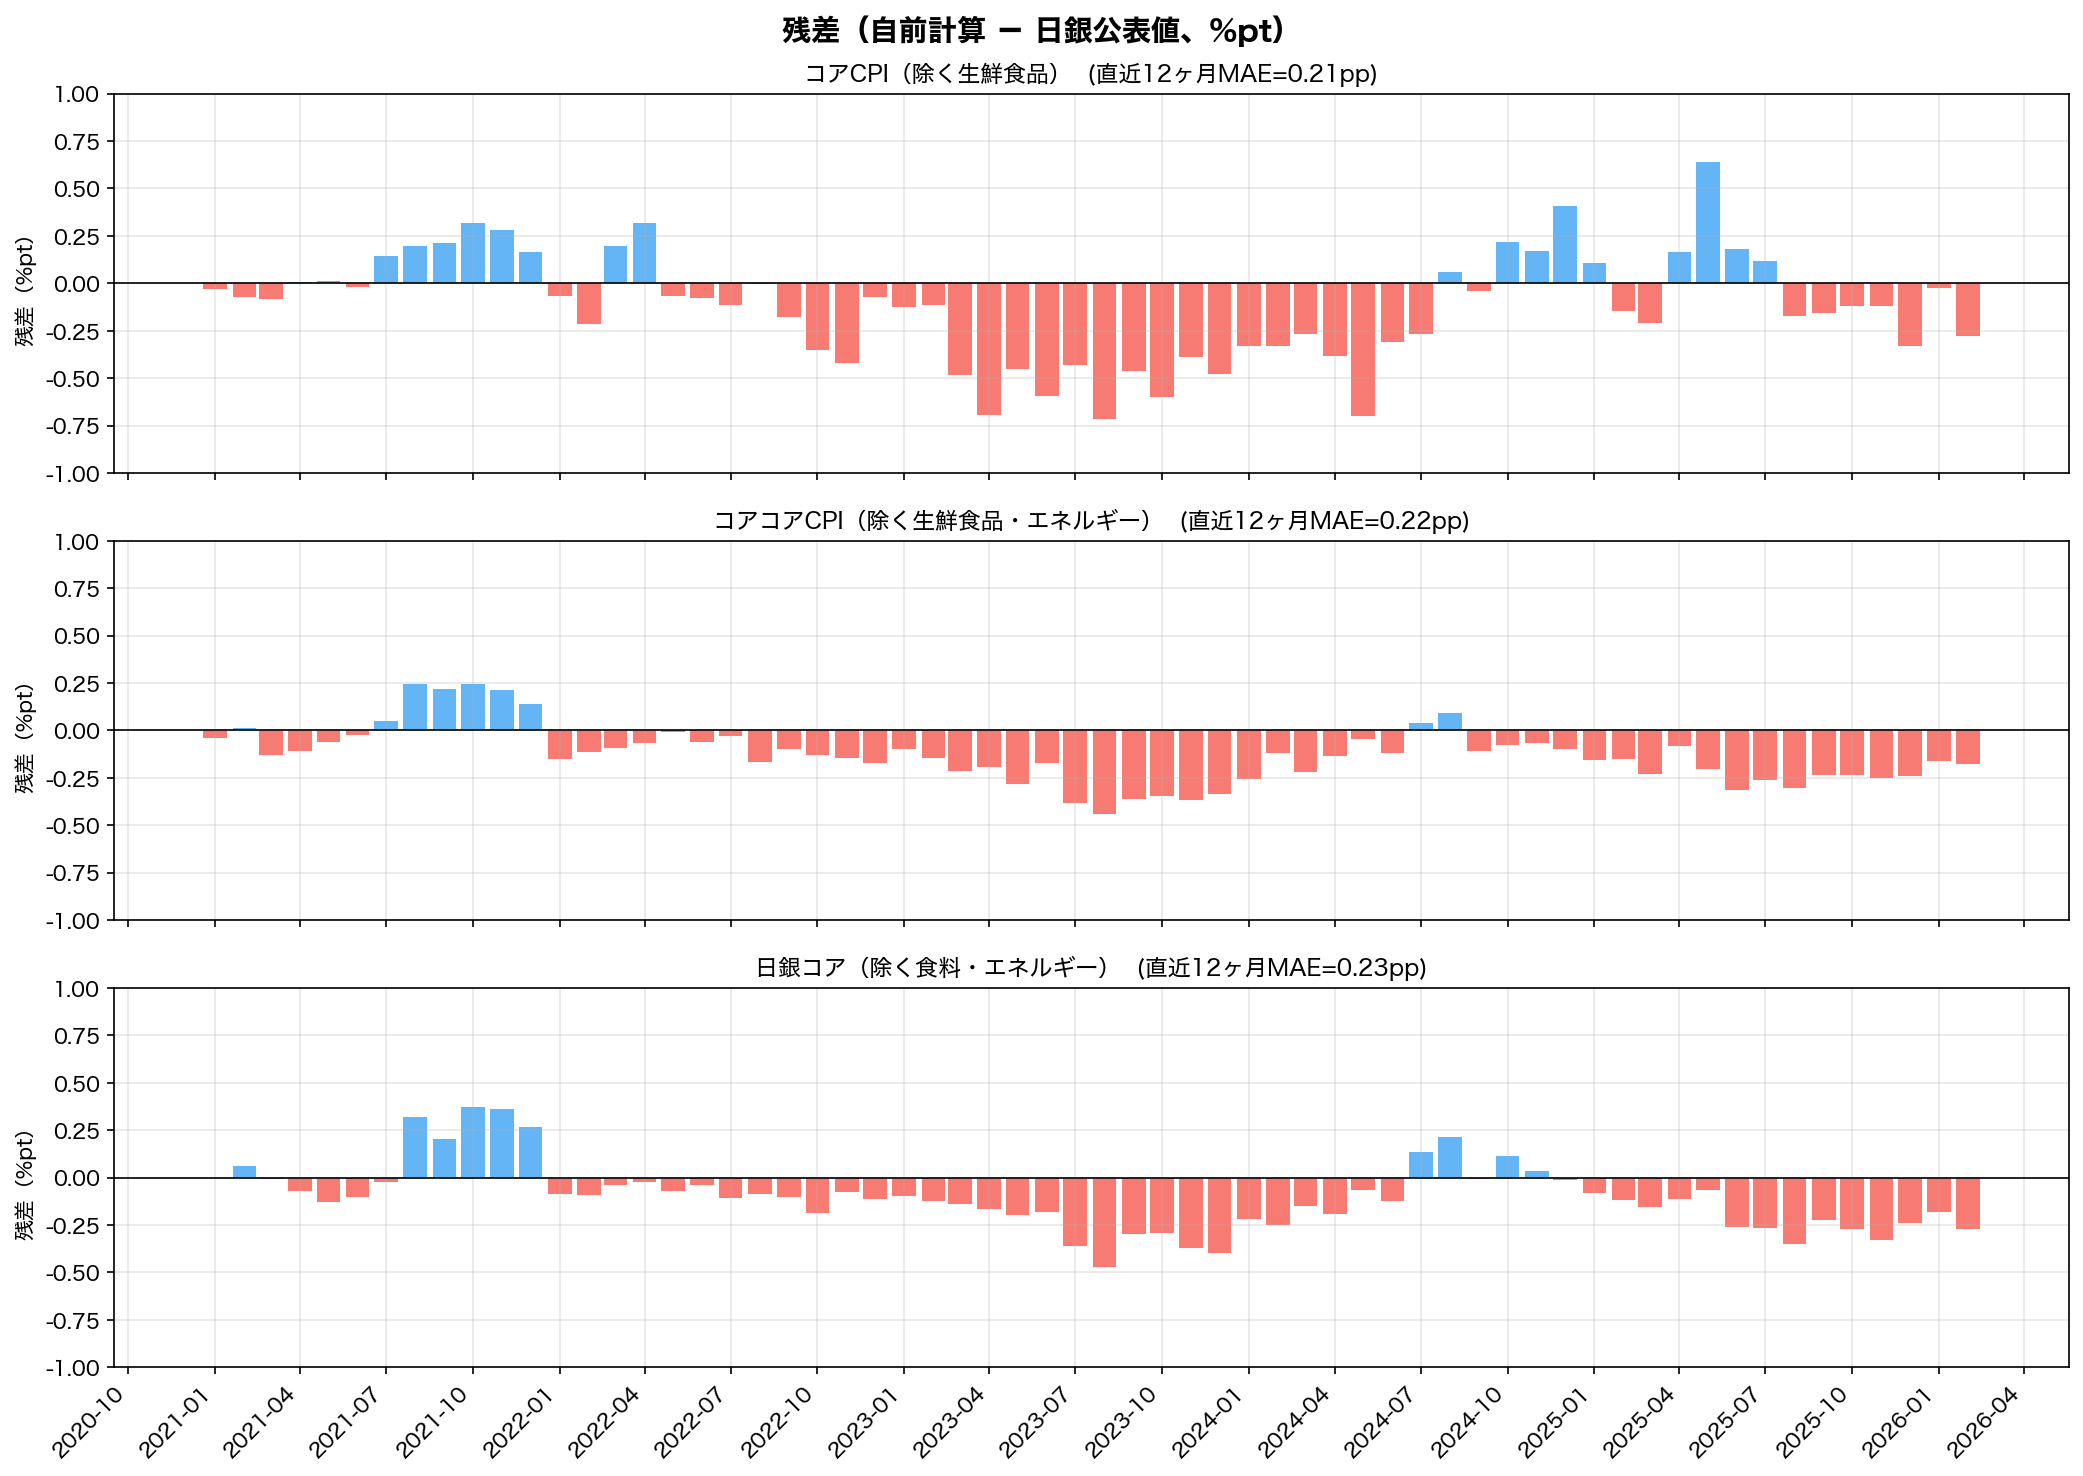
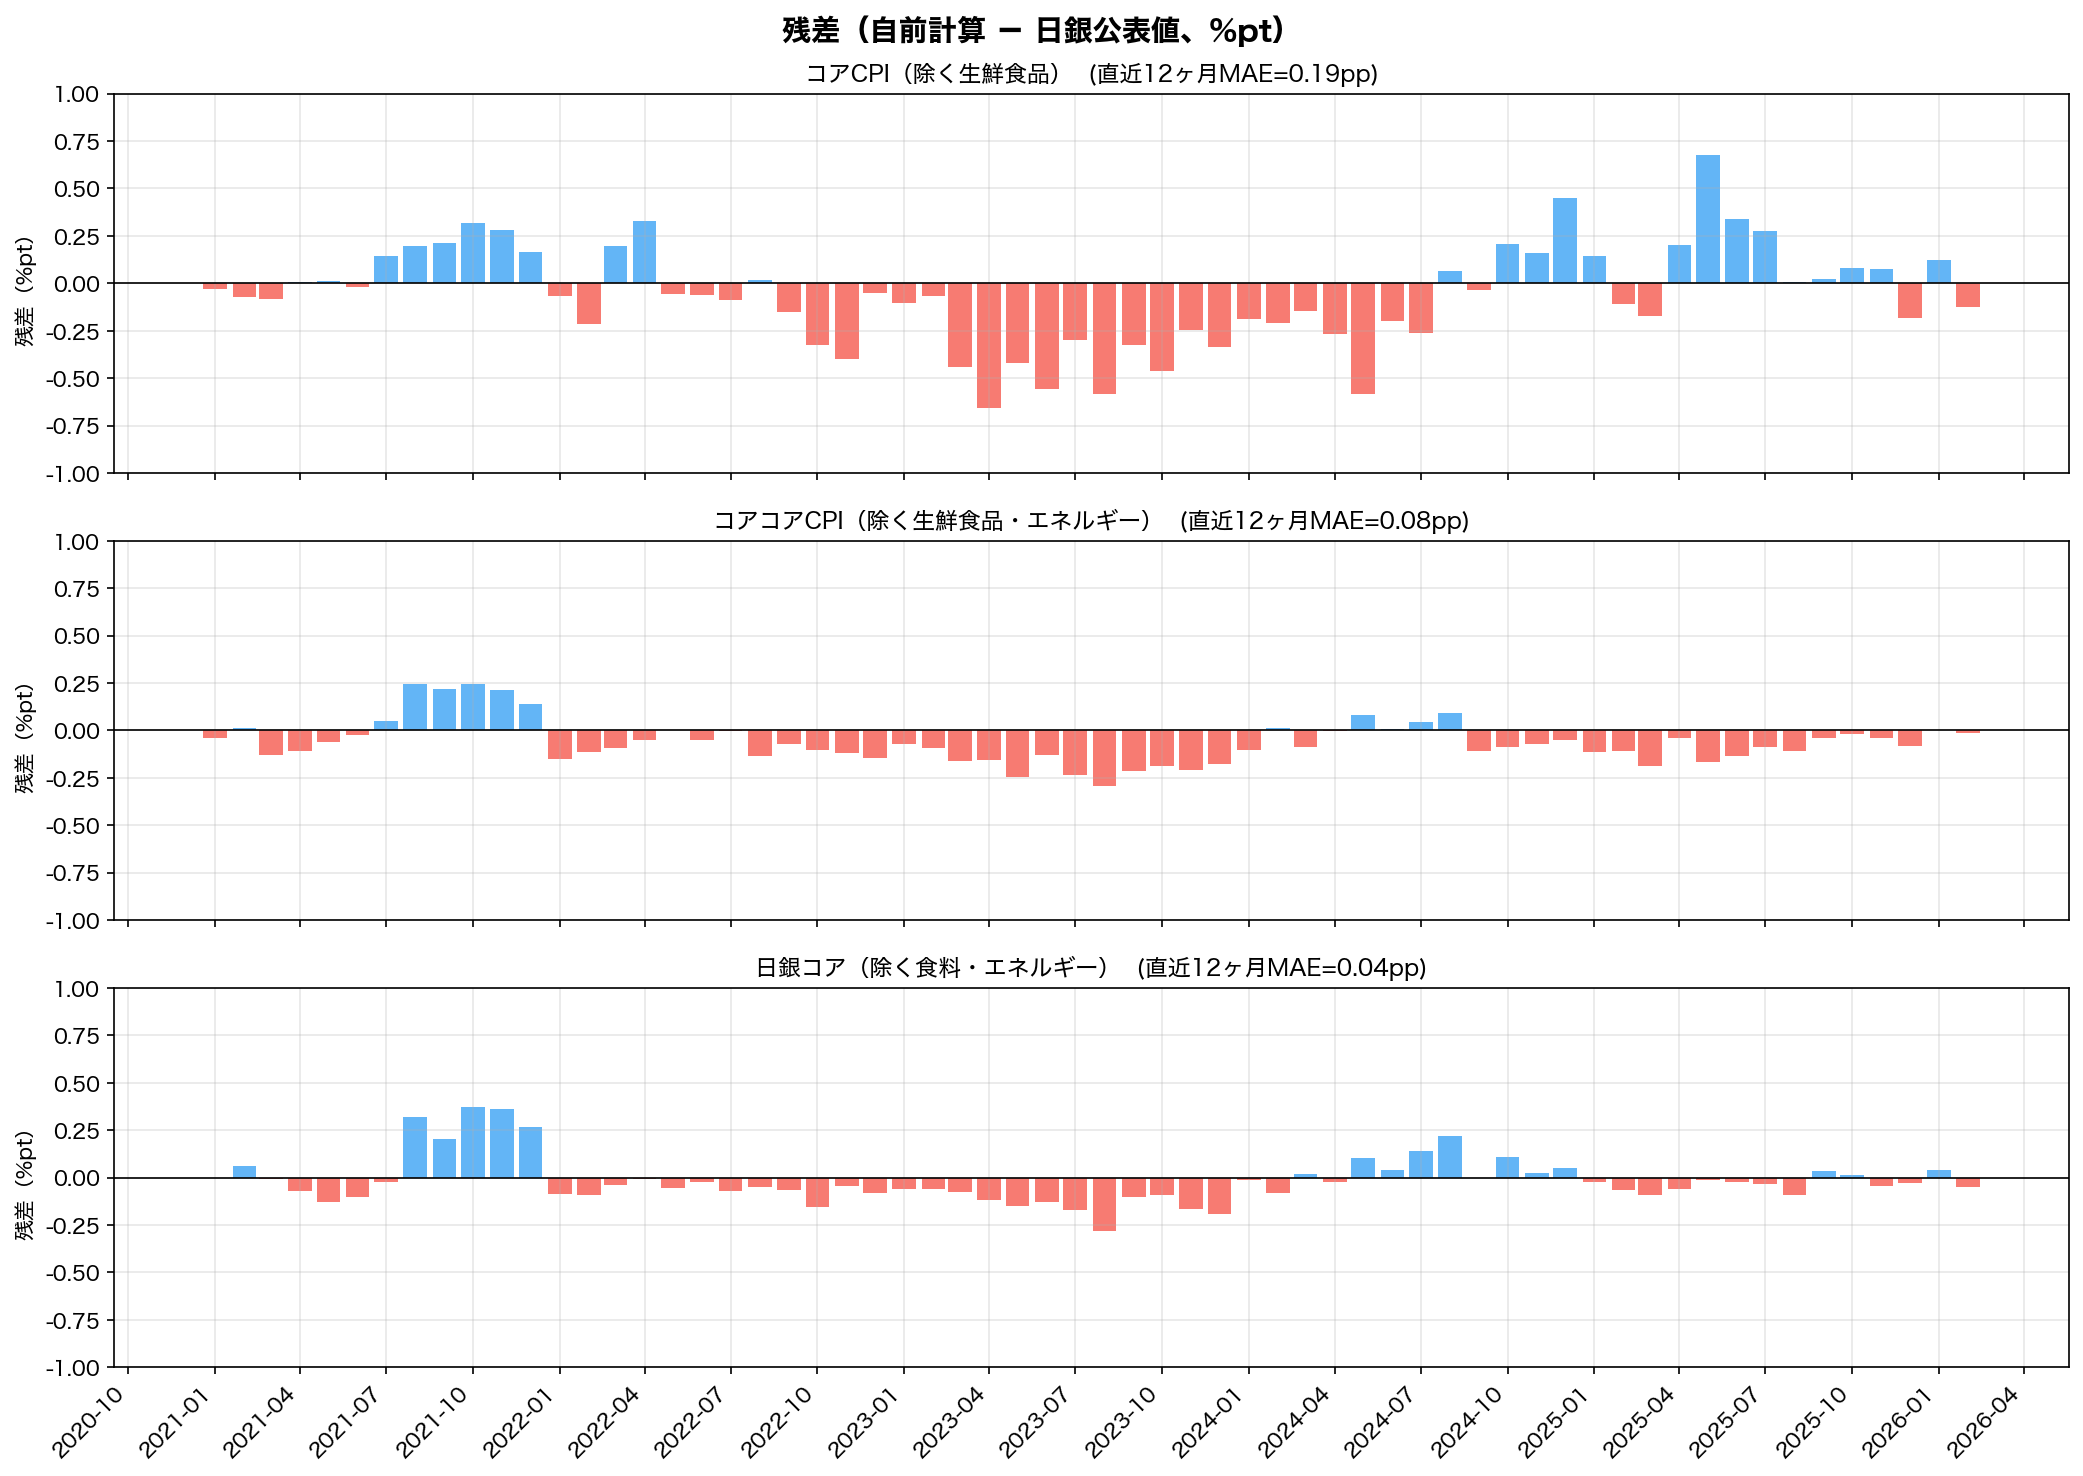
携帯通信料: 年度(2021-04〜2022-03)保合+固定段差52.4pt

diff --git a/src/adjust_interpolation.py b/src/adjust_interpolation.py
@@ -22,22 +22,35 @@ import pandas as pd
 
 
 def adjust_mobile(cpi_index: pd.Series) -> pd.Series:
-    """携帯通信料の調整（全期間保合方式）
+    """携帯通信料の調整（年度保合＋固定段差方式）
 
-    2021-04以降、急落前水準（2021-03）で保合。
-    政策誘導による値下げの全期間を除去する最もシンプルな方式。
+    1. 急落前（〜2021-03）: 実績値そのまま
+    2. 急落年度（2021-04〜2022-03）: 急落前水準で保合
+    3. 2022-04以降: 固定段差を加算
+       step = 2021-03の水準 - 2022-03の水準（年度末時点の段差）
+       adjusted[t] = actual[t] + step
     """
     adjusted = cpi_index.copy()
+    all_months = list(cpi_index.index)
 
     start_ym = "2021-03"
-    if start_ym not in adjusted.index:
+    end_ym = "2022-03"
+    if start_ym not in all_months or end_ym not in all_months:
         return adjusted
 
     val_pre = cpi_index[start_ym]
+    val_end = cpi_index[end_ym]
+    step = val_pre - val_end
 
     for ym in adjusted.index:
-        if ym > start_ym:
+        if ym <= start_ym:
+            pass
+        elif ym <= end_ym:
+            # 急落年度: 保合
             adjusted[ym] = val_pre
+        else:
+            # 年度明け以降: 固定段差加算
+            adjusted[ym] = cpi_index[ym] + step
 
     return adjusted
 
